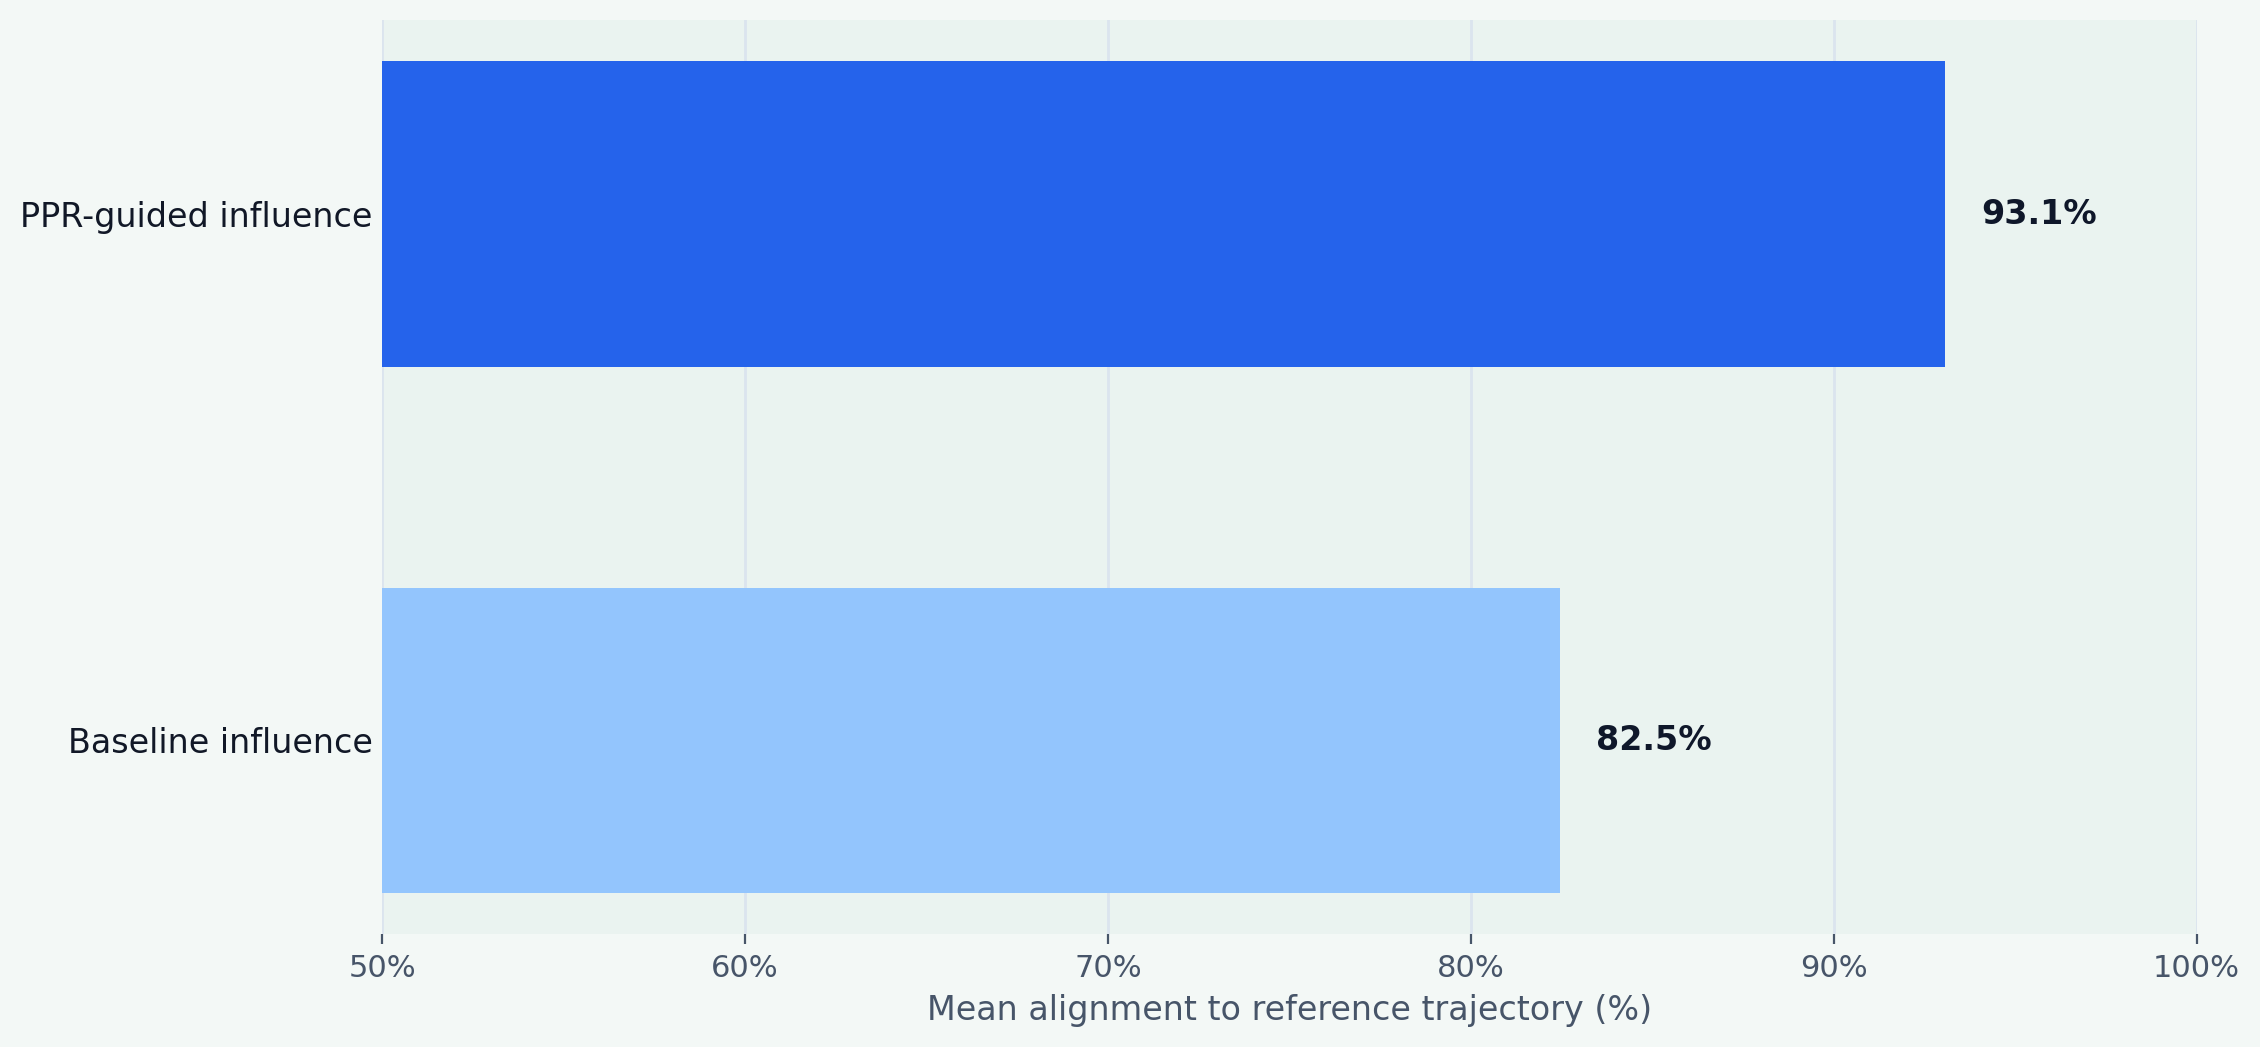
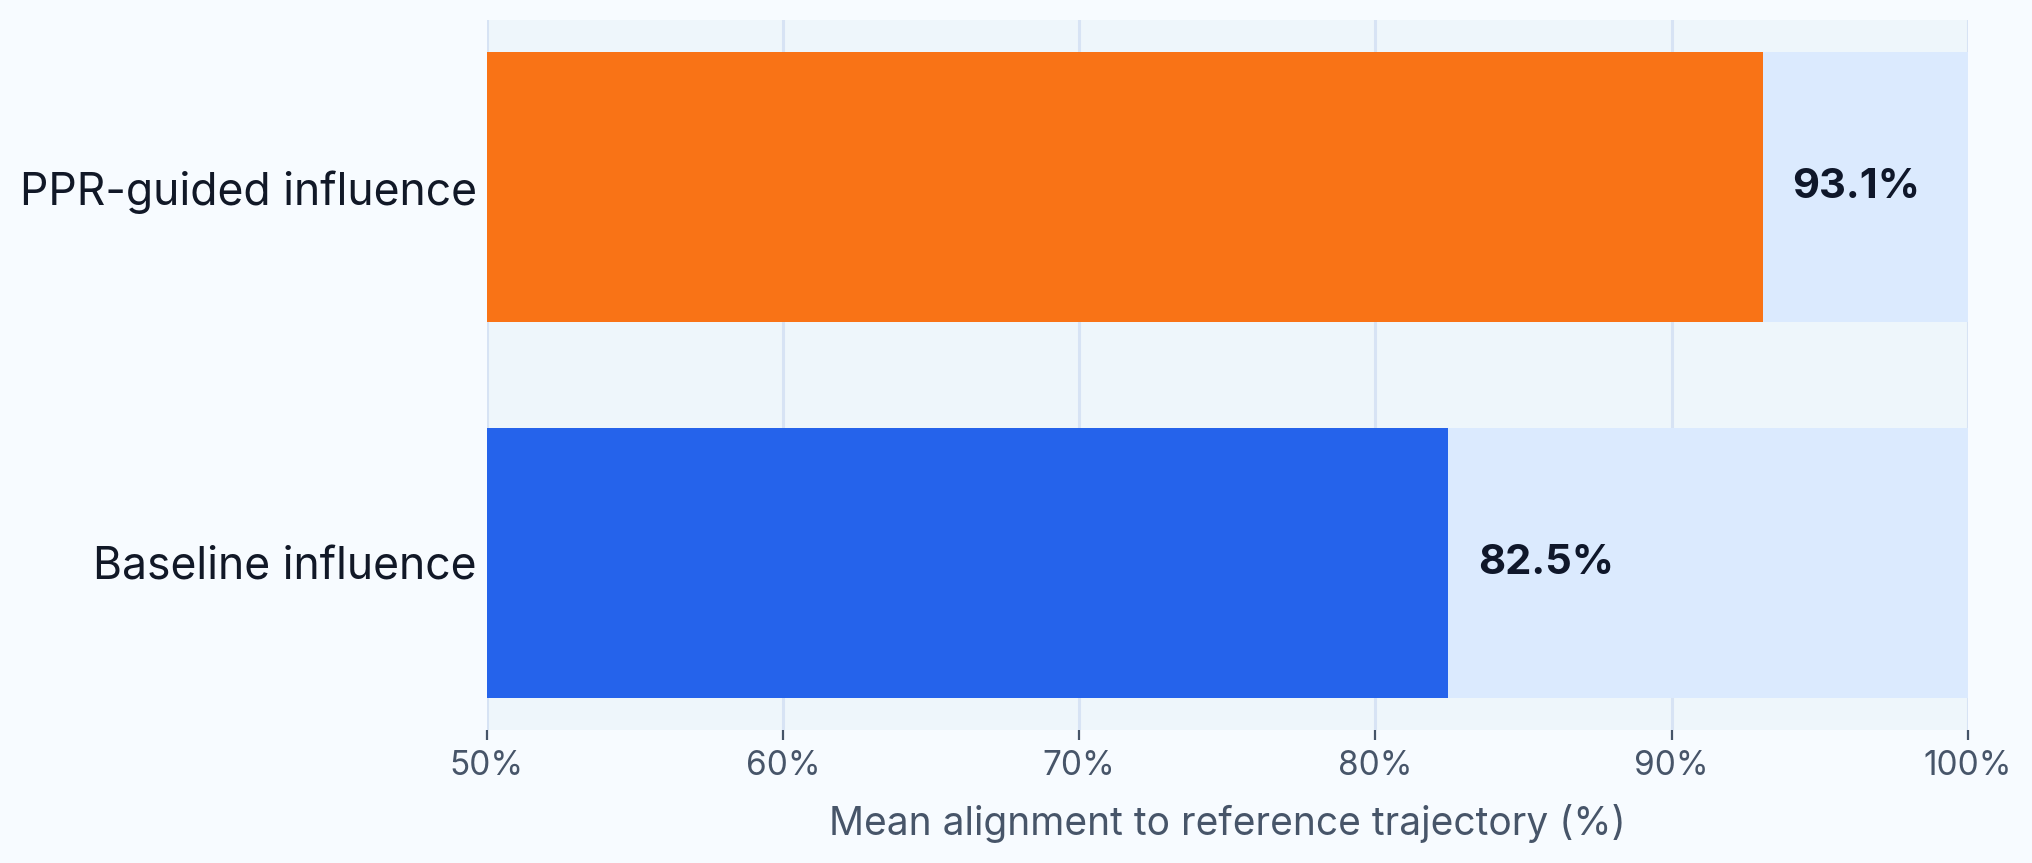
Refresh README feature chart styling

diff --git a/scripts/generate_feature_charts.py b/scripts/generate_feature_charts.py
@@ -5,8 +5,8 @@ import os
 from pathlib import Path
 
 import matplotlib.pyplot as plt
-from matplotlib.ticker import FuncFormatter
 from matplotlib import patheffects as pe
+from matplotlib.ticker import FuncFormatter
 
 
 ROOT = Path(__file__).resolve().parent.parent
@@ -17,15 +17,20 @@ DATA_PATH = ASSET_DIR / "feature_chart_data.json"
 COLORS = {
     "navy": "#0f172a",
     "slate": "#475569",
-    "grid": "#dbe4ee",
+    "grid": "#d7e3f4",
     "blue": "#2563eb",
     "blue_soft": "#93c5fd",
-    "teal": "#0f766e",
-    "teal_soft": "#99f6e4",
+    "orange": "#f97316",
+    "orange_soft": "#fdba74",
     "ink": "#111827",
-    "white": "#f3f8f6",
-    "bg": "#eaf3f0",
+    "white": "#f7fbff",
+    "bg": "#eef6fb",
+    "track": "#dbeafe",
 }
+
+
+plt.rcParams["font.family"] = ["Inter", "DejaVu Sans", "sans-serif"]
+plt.rcParams["axes.unicode_minus"] = False
 
 
 def load_data() -> dict:
@@ -41,12 +46,12 @@ def format_tokens(value: int) -> str:
 
 
 def base_figure():
-    fig, ax = plt.subplots(figsize=(12, 5.8), dpi=200)
+    fig, ax = plt.subplots(figsize=(10.8, 4.8), dpi=200)
     fig.patch.set_facecolor(COLORS["white"])
     ax.set_facecolor(COLORS["bg"])
     for spine in ax.spines.values():
         spine.set_visible(False)
-    ax.grid(axis="x", color=COLORS["grid"], linewidth=1)
+    ax.grid(axis="x", color=COLORS["grid"], linewidth=1.1)
     ax.set_axisbelow(True)
     return fig, ax
 
@@ -66,12 +71,14 @@ def save_token_chart(data: dict) -> None:
     ]
 
     fig, ax = base_figure()
-    bars = ax.barh(labels, values, color=COLORS["teal"], height=0.58)
+    ax.barh(labels, [100] * len(labels), color=COLORS["track"], height=0.66)
+    bar_colors = [COLORS["orange"], COLORS["blue"], COLORS["blue"], COLORS["blue_soft"]]
+    bars = ax.barh(labels, values, color=bar_colors, height=0.66)
     ax.invert_yaxis()
     ax.set_xlim(0, 100)
-    ax.set_xlabel("Token reduction (%)", fontsize=12, color=COLORS["slate"])
-    ax.tick_params(axis="x", labelsize=11, colors=COLORS["slate"])
-    ax.tick_params(axis="y", labelsize=12, colors=COLORS["ink"], length=0)
+    ax.set_xlabel("Token reduction (%)", fontsize=14, color=COLORS["slate"], labelpad=8)
+    ax.tick_params(axis="x", labelsize=12, colors=COLORS["slate"])
+    ax.tick_params(axis="y", labelsize=16, colors=COLORS["ink"], length=0)
 
     for bar, value, detail in zip(bars, values, details):
         y = bar.get_y() + bar.get_height() / 2
@@ -81,7 +88,7 @@ def save_token_chart(data: dict) -> None:
             f"{value:.2f}%",
             va="center",
             ha="left",
-            fontsize=12,
+            fontsize=14,
             color=COLORS["navy"],
             fontweight="bold",
         )
@@ -91,8 +98,8 @@ def save_token_chart(data: dict) -> None:
             detail,
             va="center",
             ha="right",
-            fontsize=10.5,
-            color=COLORS["white"],
+            fontsize=12,
+            color="#f8fbff",
             path_effects=[pe.withStroke(linewidth=0)],
         )
 
@@ -118,19 +125,20 @@ def save_similarity_chart(data: dict) -> None:
     widths = [value - baseline_floor for value in values]
 
     fig, ax = base_figure()
+    ax.barh(labels, [1.0 - baseline_floor] * len(labels), left=baseline_floor, color=COLORS["track"], height=0.72)
     bars = ax.barh(
         labels,
         widths,
-        color=[COLORS["blue"], COLORS["blue_soft"]],
-        height=0.58,
+        color=[COLORS["orange"], COLORS["blue"]],
+        height=0.72,
         left=baseline_floor,
     )
     ax.invert_yaxis()
     ax.set_xlim(baseline_floor, 1.0)
     ax.xaxis.set_major_formatter(FuncFormatter(lambda x, _: f"{x * 100:.0f}%"))
-    ax.set_xlabel("Mean alignment to reference trajectory (%)", fontsize=12, color=COLORS["slate"])
-    ax.tick_params(axis="x", labelsize=11, colors=COLORS["slate"])
-    ax.tick_params(axis="y", labelsize=12, colors=COLORS["ink"], length=0)
+    ax.set_xlabel("Mean alignment to reference trajectory (%)", fontsize=14, color=COLORS["slate"], labelpad=8)
+    ax.tick_params(axis="x", labelsize=12, colors=COLORS["slate"])
+    ax.tick_params(axis="y", labelsize=16, colors=COLORS["ink"], length=0)
 
     for bar, value in zip(bars, values):
         y = bar.get_y() + bar.get_height() / 2
@@ -141,7 +149,7 @@ def save_similarity_chart(data: dict) -> None:
             f"{value * 100:.1f}%",
             va="center",
             ha="left",
-            fontsize=12,
+            fontsize=15,
             color=COLORS["navy"],
             fontweight="bold",
         )

diff --git a/README.md b/README.md
@@ -45,34 +45,18 @@ MicroWorld is organized around four stages:
 <table>
   <tr>
     <td width="50%" valign="top" align="center">
-      <img src="https://img.shields.io/badge/Dual%20Cluster%20Modes-Efficiency-2563eb?style=for-the-badge&labelColor=0f172a" alt="Dual Cluster Modes Efficiency" />
-      <br />
-      <br />
-      <strong>Cluster-based Token Reduction</strong>
-      <br />
-      <sub>Topology-aware coordination</sub>
-      <br />
-      <br />
       <img src="docs/assets/feature_token_savings_bar.png" width="100%" alt="Cluster-based coordination reduces token usage" />
     </td>
     <td width="50%" valign="top" align="center">
-      <img src="https://img.shields.io/badge/PPR--guided%20Influence-Accuracy-f97316?style=for-the-badge&labelColor=0f172a" alt="PPR-guided Influence Accuracy" />
-      <br />
-      <br />
-      <strong>PPR-guided Trajectory Fidelity</strong>
-      <br />
-      <sub>Topology-aware influence weighting</sub>
-      <br />
-      <br />
       <img src="docs/assets/feature_ppr_similarity_bar.png" width="100%" alt="PPR-guided influence improves simulation accuracy" />
     </td>
   </tr>
   <tr>
-    <td valign="top" align="left">
-      <sub><strong>Cluster-based coordination</strong> removes redundant updates and cuts token usage sharply as the workload grows.</sub>
+    <td valign="top" align="center">
+      <sub>Removes redundant updates and cuts token usage sharply as workloads grow.</sub>
     </td>
-    <td valign="top" align="left">
-      <sub><strong>PPR-guided influence</strong> keeps the simulation trajectory closer to the reference trend than the baseline run.</sub>
+    <td valign="top" align="center">
+      <sub>Keeps the simulation trajectory closer to the reference trend than the baseline run.</sub>
     </td>
   </tr>
 </table>
